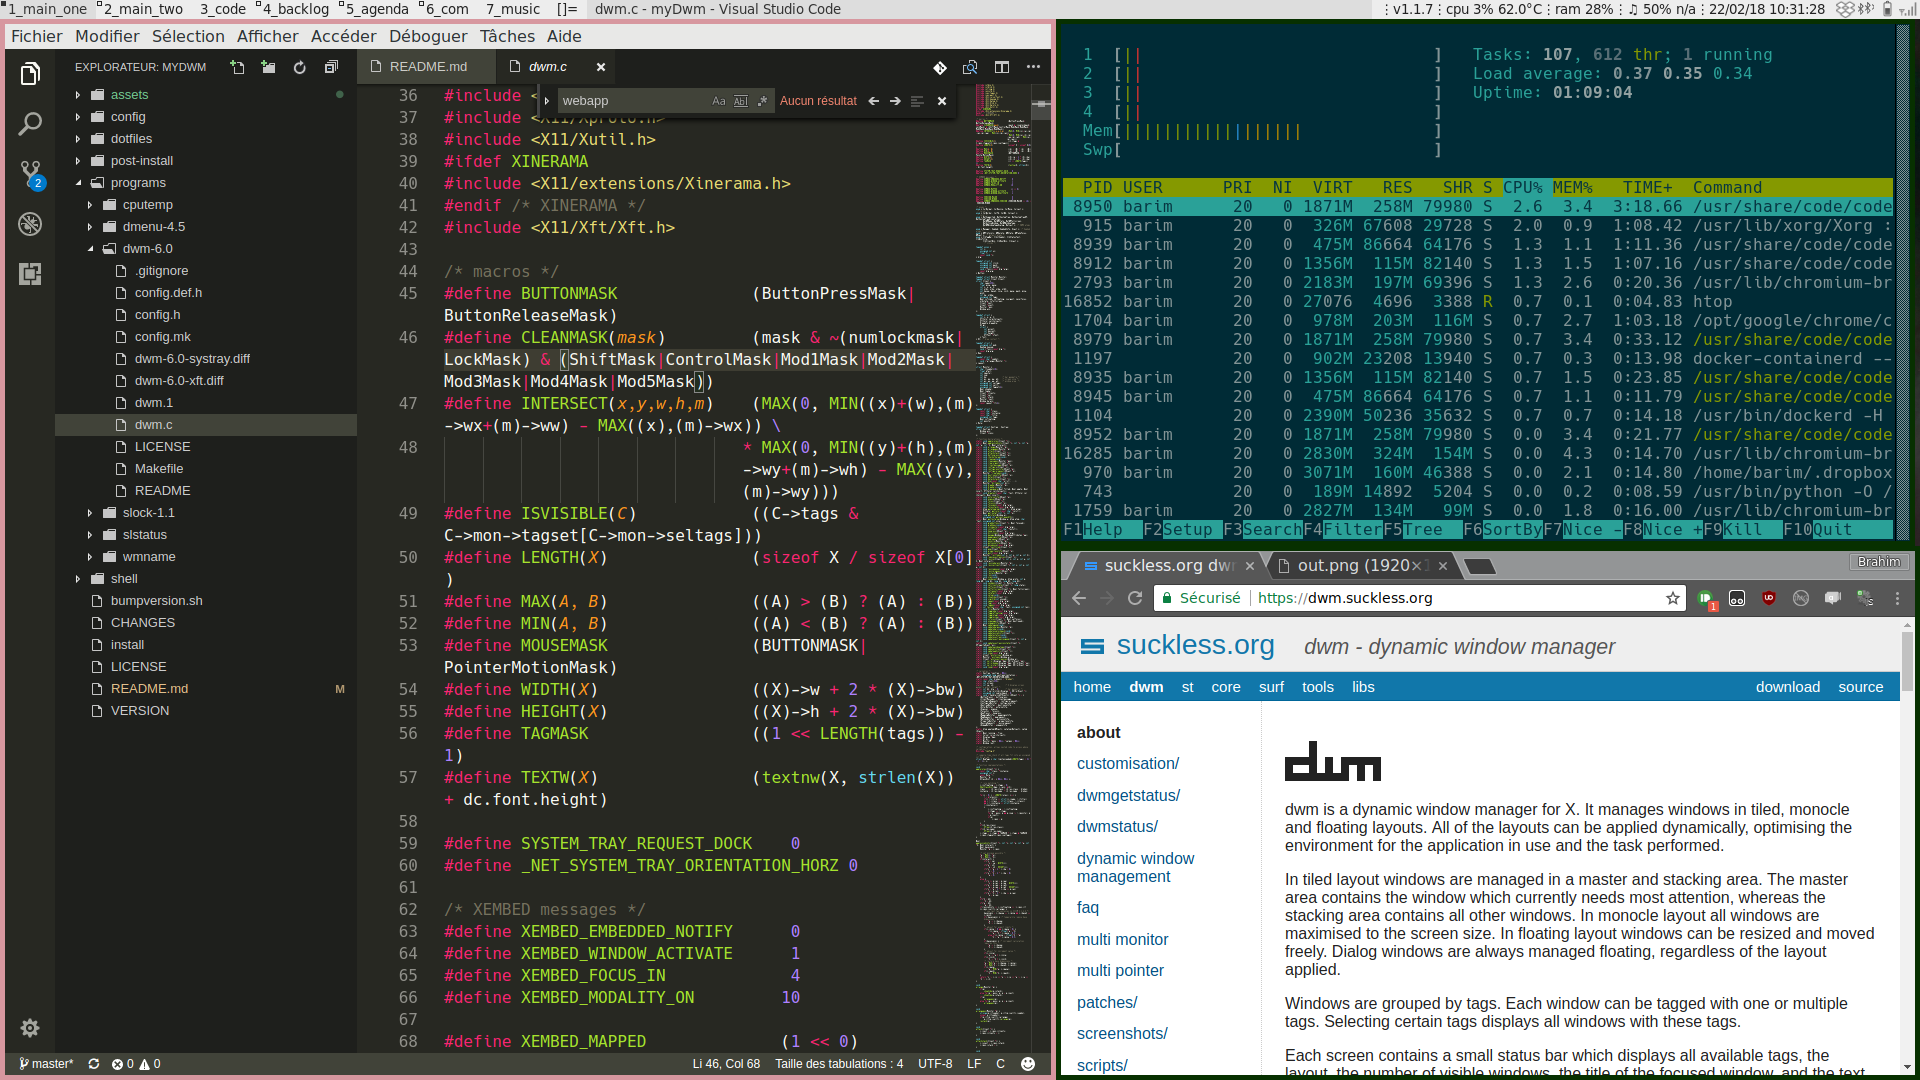
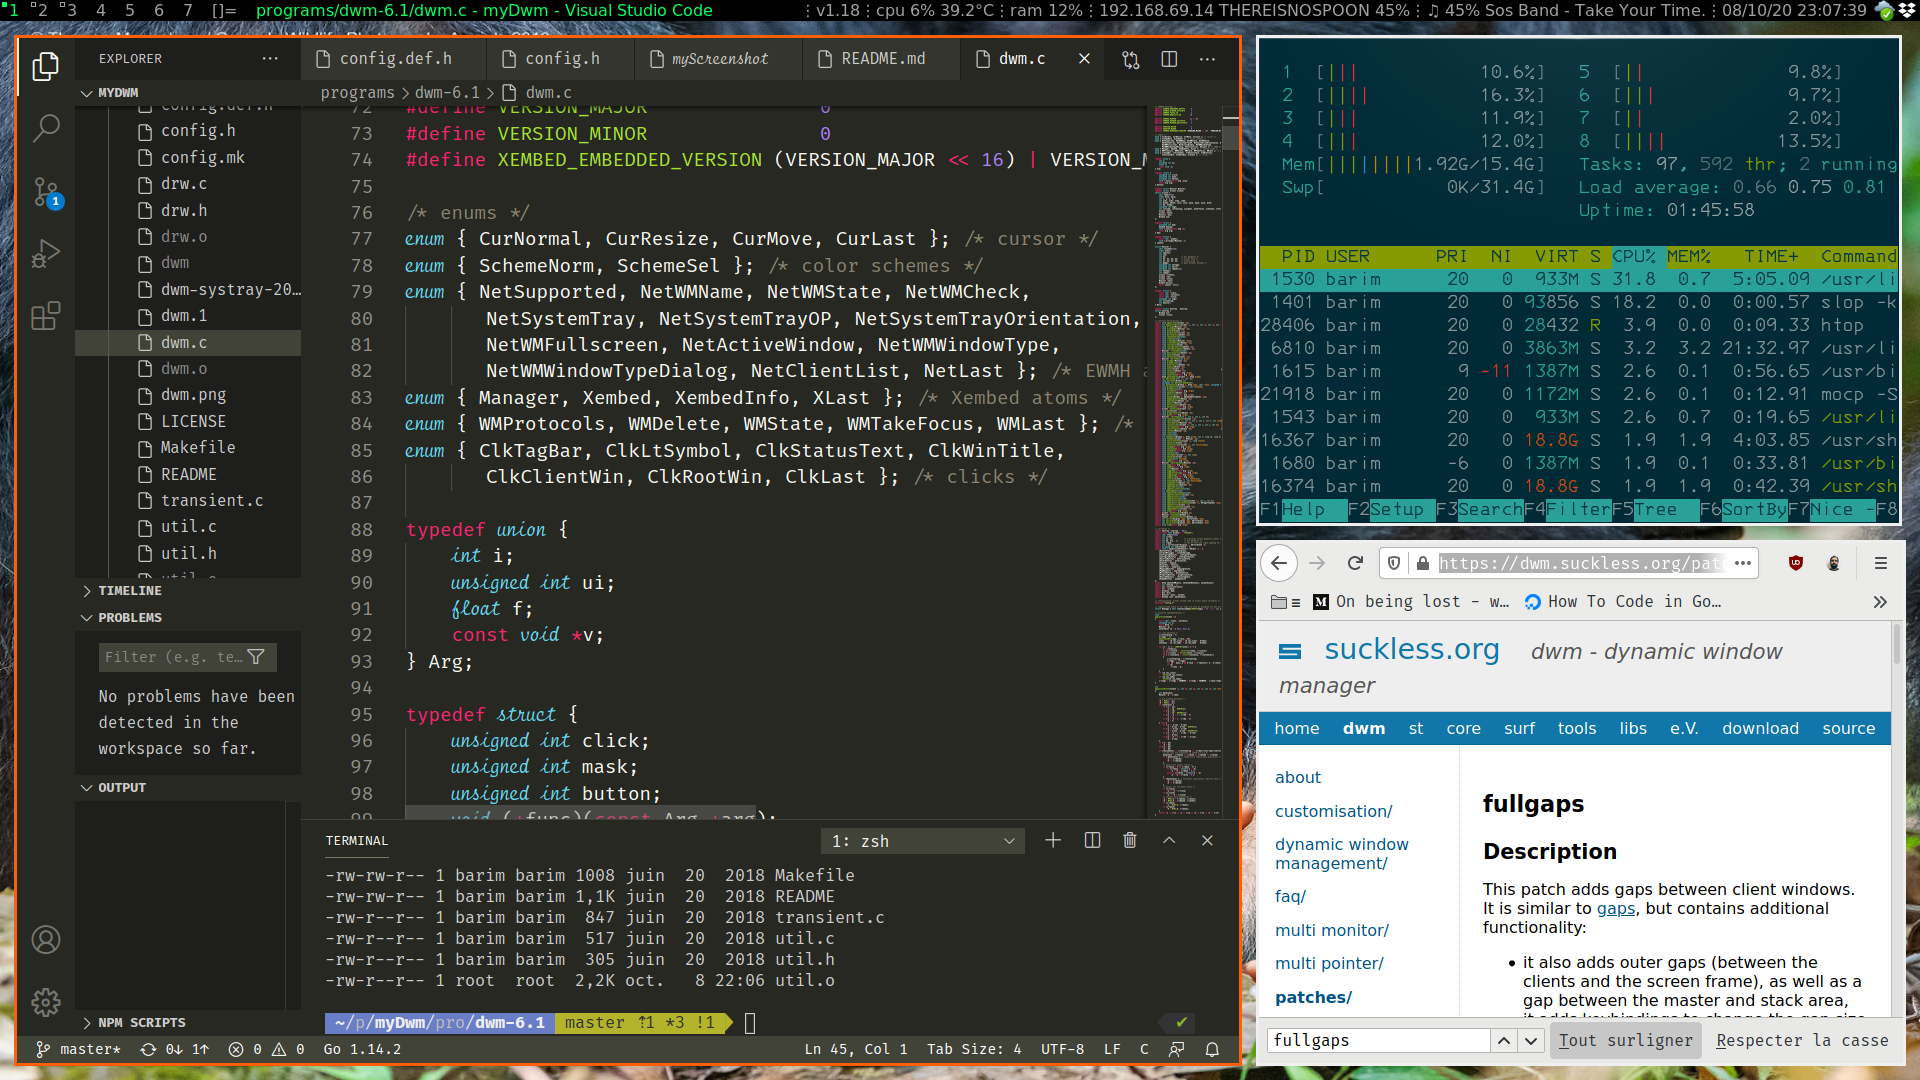
1.19

diff --git a/programs/slstatus/version.h b/programs/slstatus/version.h
@@ -1,1 +1,1 @@
-#define VERSION "1.18"
+#define VERSION "1.19"

diff --git a/README.md b/README.md
@@ -8,6 +8,7 @@
 * [Dmenu 4.5](http://tools.suckless.org/dmenu/)
 * [Systray patch](http://dwm.suckless.org/patches/systray)
 * Xft patch : for [dwm](http://dwm.suckless.org/patches/xft) and [dmenu](http://tools.suckless.org/dmenu/patches/xft)
+* [full gaps patch](https://dwm.suckless.org/patches/fullgaps/)
 * [wmname 0.1](http://tools.suckless.org/wmname)
 * [slock 1.1](http://tools.suckless.org/slock/)
 * [slstatus](https://github.com/drkhsh/slstatus)
@@ -32,6 +33,10 @@
   * win + TAB           : focus next area
   * win + shift + TAB   : focus previous area
   * win + shit + c      : close window
+  * win + -             : shrink gap between windows
+  * win + =             : grow gap between windows
+  * win + shift + =     : disable gap between windows
+  * win + shift + q     : reload dwm
   * PRINTSCREEN         : select an area to screenshot and create a png in home and copy to clipboard (shell script myScreenshot)
 * Multimedia keys pilot moc "music on console" (shell script audio)
 * Volume keys pilot PulseAudio (shell script audio)
